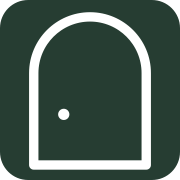
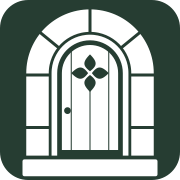
Use segmented wine-window design with a left door handle

diff --git a/index.html b/index.html
@@ -8,12 +8,12 @@
   <meta property="og:title" content="Storia di Pasta — A little place. Good company.">
   <meta property="og:description" content="Il Cortile. La Sala. La Cantina. Il Patio. Find your corner on Sukhumvit Soi 33/1, Bangkok.">
   <meta property="og:type" content="website"><meta property="og:image" content="https://storiadipasta.com/images/exterior.jpg">
-  <link rel="canonical" href="https://storiadipasta.com/"><link rel="icon" href="/favicon.svg?v=simple-arch" type="image/svg+xml"><link rel="icon" href="/favicon.ico" sizes="16x16 32x32"><link rel="apple-touch-icon" href="/apple-touch-icon.png">
+  <link rel="canonical" href="https://storiadipasta.com/"><link rel="icon" href="/favicon.svg?v=segmented-arch" type="image/svg+xml"><link rel="icon" href="/favicon.ico" sizes="16x16 32x32"><link rel="apple-touch-icon" href="/apple-touch-icon.png">
   <link rel="preload" href="/fonts/PaytoneOne-Regular.ttf" as="font" type="font/ttf" crossorigin>
 </head>
 <body>
 <a class="skip" href="#main">Skip to content</a>
-<header><div class="brand-lockup"><button class="window-toggle" type="button" aria-label="Open the wine window" aria-pressed="false" title="Open the wine window"><svg viewBox="0 0 80 96" aria-hidden="true" focusable="false"><g class="window-glass"><path d="M31 47h18l-1 10a8 8 0 0 1-7 7v10h7v3H32v-3h7V64a8 8 0 0 1-7-7Z" fill="currentColor"/><path d="m33 54 1 4a6 6 0 0 0 12 0l.5-4Z" fill="#a64f3a"/></g><g class="window-door"><path d="M17 85V39a23 23 0 0 1 46 0v46Z" fill="#263d32"/><circle cx="26" cy="61" r="3" fill="currentColor"/></g><path d="M10 88V39a30 30 0 0 1 60 0v49Z" fill="none" stroke="currentColor" stroke-width="5" stroke-linejoin="round"/></svg><span class="window-cheer" aria-hidden="true">Cin cin!</span></button><a class="brand" href="#" aria-label="Storia di Pasta home"><img src="/images/logo.svg" alt="Storia di Pasta"></a></div><span class="sr-only" id="window-status" role="status"></span><nav aria-label="Main navigation"><a href="#visit">Visit &amp; contact</a></nav></header>
+<header><div class="brand-lockup"><button class="window-toggle" type="button" aria-label="Open the wine window" aria-pressed="false" title="Open the wine window"><svg viewBox="0 0 80 96" aria-hidden="true" focusable="false"><g class="window-glass"><path d="M31 47h18l-1 10a8 8 0 0 1-7 7v10h7v3H32v-3h7V64a8 8 0 0 1-7-7Z" fill="currentColor"/><path d="m33 54 1 4a6 6 0 0 0 12 0l.5-4Z" fill="#a64f3a"/></g><g class="window-door"><path d="M25 80V39a15 15 0 0 1 30 0v41Z" fill="currentColor"/><path d="M30 27v53m20-53v53M40 48v32" stroke="var(--window-ground)" stroke-width=".55" fill="none"/><path d="M40 38c-4-3-4-5 0-9 4 4 4 6 0 9m0 2c4 3 4 5 0 9-4-4-4-6 0-9m-1-1c-3 4-5 4-9 0 4-4 6-4 9 0m2 0c3-4 5-4 9 0-4 4-6 4-9 0" fill="var(--window-ground)"/><circle cx="28" cy="59" r="1.8" fill="var(--window-ground)"/></g><path d="M6 83V39a34 34 0 0 1 68 0v44H62V39a22 22 0 0 0-44 0v44Z" fill="currentColor"/><path d="M40 4v14M13 17l11 9m43-9L56 26M5 40h14m42 0h14M5 68h14m42 0h14" fill="none" stroke="var(--window-ground)" stroke-width="1.6"/><path d="M21 83V39a19 19 0 0 1 38 0v44" fill="none" stroke="currentColor" stroke-width="3"/><rect x="4" y="85" width="72" height="9" rx="1" fill="currentColor"/></svg><span class="window-cheer" aria-hidden="true">Cin cin!</span></button><a class="brand" href="#" aria-label="Storia di Pasta home"><img src="/images/logo.svg" alt="Storia di Pasta"></a></div><span class="sr-only" id="window-status" role="status"></span><nav aria-label="Main navigation"><a href="#visit">Visit &amp; contact</a></nav></header>
 <main id="main">
   <section class="hero">
     <img class="hero-photo" src="/images/exterior.jpg" alt="Friends gathering outside the warmly lit Storia di Pasta entrance and wine window" fetchpriority="high">

diff --git a/src/style.css b/src/style.css
@@ -21,3 +21,4 @@ header{position:relative;z-index:2}
 
 /* Flat white mark, sitting directly on the green header. */
 .window-toggle{background:transparent;color:#fff;border-radius:0;padding:0;box-shadow:none}.window-toggle:hover{background:transparent;box-shadow:none}.window-toggle:focus-visible{outline:2px solid #fff;outline-offset:5px;border-radius:3px}
+.window-toggle{--window-ground:#263d32}.window-door{transform-origin:56px 52px}
